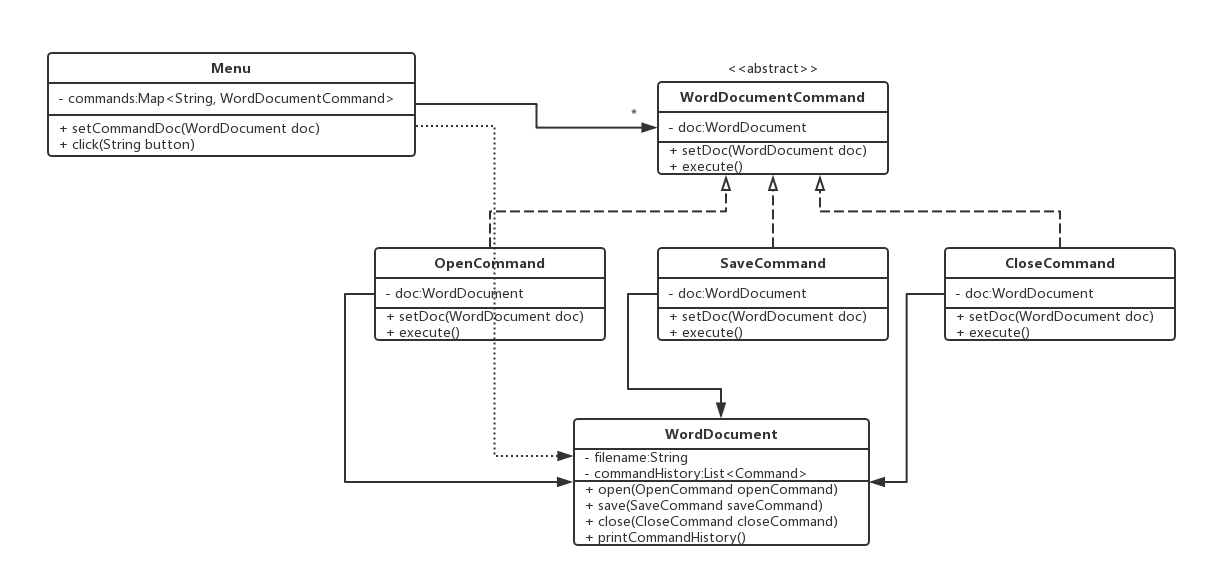
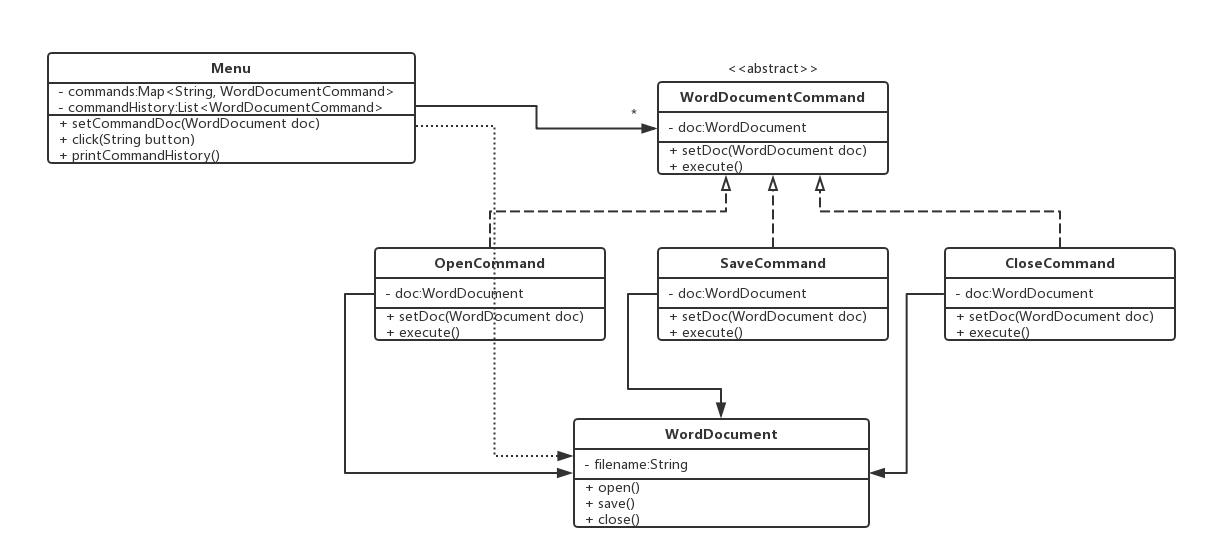
Command Pattern Word app menu example

diff --git a/4-Behavioral Patterns/6-Command Pattern/Word App Menu Example/Python/word_app_menu.py b/4-Behavioral Patterns/6-Command Pattern/Word App Menu Example/Python/word_app_menu.py
@@ -14,51 +14,39 @@ class WordDocument(object):
     """
     WordDocument class that works as the "Receiver" for "WordDocumentCommand".
     """
-    __slots__ = ['_filename', '_command_history']
+    __slots__ = ['_filename']
 
     def __init__(self, filename: str):
+        """
+        Constructor with parameter.
+        :param filename: str
+        """
         self._filename = filename
-        self._command_history = []
 
     @property
     def filename(self) -> str:
         return self._filename
 
-    def open(self, open_command) -> None:
+    def open(self) -> None:
         """
         Opens this Word document.
-        :param open_command: OpenCommand
         :return: None
         """
         print(f'{self._filename} has been opened.')
-        self._command_history.append(open_command)
 
-    def save(self, save_command) -> None:
+    def save(self) -> None:
         """
         Opens this Word document.
-        :param save_command: SaveCommand
         :return: None
         """
         print(f'{self._filename} has been saved.')
-        self._command_history.append(save_command)
 
-    def close(self, close_command) -> None:
+    def close(self) -> None:
         """
         Closes this Word document.
-        :param close_command: CloseCommand
         :return: None
         """
         print(f'{self._filename} has been saved.')
-        self._command_history.append(close_command)
-
-    def print_command_history(self) -> None:
-        """
-        Prints the command history on this Word document.
-        :return: None
-        """
-        print(f'Command history on {self._filename}:')
-        for command in self._command_history:
-            print(command)
 
 
 class WordDocumentCommand(ABC):
@@ -115,7 +103,7 @@ class OpenCommand(WordDocumentCommand):
 
     def execute(self):
         # Let the Word document [Receiver] handle this open command [Command]
-        self._doc.open(self)
+        self._doc.open()
 
 
 class SaveCommand(WordDocumentCommand):
@@ -138,7 +126,7 @@ class SaveCommand(WordDocumentCommand):
 
     def execute(self):
         # Let the Word document [Receiver] handle this save command [Command]
-        self._doc.save(self)
+        self._doc.save()
 
 
 class CloseCommand(WordDocumentCommand):
@@ -161,7 +149,7 @@ class CloseCommand(WordDocumentCommand):
 
     def execute(self):
         # Let the Word document [Receiver] handle this close command [Command]
-        self._doc.close(self)
+        self._doc.close()
 
 
 class Menu(object):
@@ -172,8 +160,7 @@ class Menu(object):
     command.execute() method, and let the internal correct "Receive" handle the
     request.
     """
-    # __slots__ = ['_open_command', '_save_command', '_close_command']
-    __slots__ = ['_commands']
+    __slots__ = ['_commands', '_command_history']
 
     def __init__(self):
         """
@@ -184,6 +171,7 @@ class Menu(object):
             'save': SaveCommand(),
             'close': CloseCommand()
         }
+        self._command_history = []
 
     def set_command_doc(self, doc: WordDocument) -> None:
         """
@@ -203,4 +191,16 @@ class Menu(object):
         if button in self._commands:
             print(f'Menu [Invoker] starts executing the {button} command '
                   f'[Command]...')
-            self._commands[button].execute()
+            # self._commands[button].execute()
+            command = self._commands[button]
+            command.execute()
+            self._command_history.append(command)
+
+    def print_command_history(self) -> None:
+        """
+        Prints the command history.
+        :return: None
+        """
+        print('Command history')
+        for command in self._command_history:
+            print(command)

diff --git a/4-Behavioral Patterns/6-Command Pattern/Word App Menu Example/Java/word_app_menu/WordDocument.java b/4-Behavioral Patterns/6-Command Pattern/Word App Menu Example/Java/word_app_menu/WordDocument.java
@@ -1,8 +1,5 @@
 package word_app_menu;
 
-import java.util.ArrayList;
-import java.util.List;
-
 /**
  * WordDocument class that works as the "Receiver" for "WordDocumentCommand".
  *
@@ -14,10 +11,6 @@ public class WordDocument {
      * Filename of this Word document.
      */
     private final String filename;
-    /**
-     * Command history on this Word document.
-     */
-    private List<WordDocumentCommand> commandHistory;
 
     /**
      * Constructor with parameter.
@@ -25,7 +18,6 @@ public class WordDocument {
      */
     public WordDocument(String filename) {
         this.filename = filename;
-        commandHistory = new ArrayList<>();
     }
 
     /**
@@ -38,39 +30,23 @@ public class WordDocument {
 
     /**
      * Opens this Word document.
-     * @param openCommand command to open this Word document
      */
-    void open(OpenCommand openCommand) {
+    void open() {
         System.out.println(filename + " has been opened.");
-        commandHistory.add(openCommand);
     }
 
     /**
      * Saves this Word document.
-     * @param saveCommand command to save this Word document
      */
-    void save(SaveCommand saveCommand) {
+    void save() {
         System.out.println(filename + " has been saved.");
-        commandHistory.add(saveCommand);
     }
 
     /**
      * Closes this Word document.
-     * @param closeCommand command to close this Word document
      */
-    void close(CloseCommand closeCommand) {
+    void close() {
         System.out.println(filename + " has been closed.");
-        commandHistory.add(closeCommand);
-    }
-
-    /**
-     * Prints the command history on this Word document.
-     */
-    public void printCommandHistory() {
-        System.out.println("Command history on " + filename + ":");
-        for (WordDocumentCommand command : commandHistory) {
-            System.out.println(command);
-        }
     }
 
 }

diff --git a/4-Behavioral Patterns/6-Command Pattern/Word App Menu Example/Java/runner/User.java b/4-Behavioral Patterns/6-Command Pattern/Word App Menu Example/Java/runner/User.java
@@ -29,9 +29,6 @@ public class User {
         menu.click("save");
         menu.click("close");
 
-        System.out.println();
-        doc.printCommandHistory();
-
         WordDocument doc2 = new WordDocument("Sample File 2.txt"); // Receiver
 
         System.out.println();
@@ -45,7 +42,7 @@ public class User {
         menu.click("close");
 
         System.out.println();
-        doc2.printCommandHistory();
+        menu.printCommandHistory();
 
         /*
          * Output:
@@ -66,12 +63,6 @@ public class User {
          * Menu [Invoker] starts executing the close command [Command]
          * Sample File.txt has been closed.
          *
-         * Command history on Sample File.txt:
-         * word_app_menu.OpenCommand@39ba5a14
-         * word_app_menu.SaveCommand@511baa65
-         * word_app_menu.SaveCommand@511baa65
-         * word_app_menu.CloseCommand@340f438e
-         *
          * Setting the Word document [Receiver] for save command [Command] as Sample File 2.txt.
          * Setting the Word document [Receiver] for close command [Command] as Sample File 2.txt.
          * Setting the Word document [Receiver] for open command [Command] as Sample File 2.txt.
@@ -85,7 +76,11 @@ public class User {
          * Menu [Invoker] starts executing the close command [Command]
          * Sample File 2.txt has been closed.
          *
-         * Command history on Sample File 2.txt:
+         * Command history:
+         * word_app_menu.OpenCommand@39ba5a14
+         * word_app_menu.SaveCommand@511baa65
+         * word_app_menu.SaveCommand@511baa65
+         * word_app_menu.CloseCommand@340f438e
          * word_app_menu.OpenCommand@39ba5a14
          * word_app_menu.SaveCommand@511baa65
          * word_app_menu.SaveCommand@511baa65

diff --git a/4-Behavioral Patterns/6-Command Pattern/Word App Menu Example/Python/user.py b/4-Behavioral Patterns/6-Command Pattern/Word App Menu Example/Python/user.py
@@ -25,9 +25,6 @@ def main():
     menu.click('save')
     menu.click('close')
 
-    print()
-    doc.print_command_history()
-
     doc2 = WordDocument('Sample File 2.txt')  # Receiver
 
     # Set the Word document [Receiver] for the commands [Command]
@@ -41,7 +38,7 @@ def main():
     menu.click('close')
 
     print()
-    doc2.print_command_history()
+    menu.print_command_history()
 
 
 if __name__ == '__main__':
@@ -65,12 +62,6 @@ if __name__ == '__main__':
 # Menu [Invoker] starts executing the close command [Command]...
 # Sample File.txt has been saved.
 #
-# Command history on Sample File.txt:
-# <word_app_menu.OpenCommand object at 0x109edd618>
-# <word_app_menu.SaveCommand object at 0x109edd648>
-# <word_app_menu.SaveCommand object at 0x109edd648>
-# <word_app_menu.CloseCommand object at 0x109edd678>
-#
 # Setting a Word document [Receiver] for open command [Command] as Sample File 2.txt.
 # Setting a Word document [Receiver] for save command [Command] as Sample File 2.txt.
 # Setting a Word document [Receiver] for close command [Command] as Sample File 2.txt.
@@ -84,7 +75,11 @@ if __name__ == '__main__':
 # Menu [Invoker] starts executing the close command [Command]...
 # Sample File 2.txt has been saved.
 #
-# Command history on Sample File 2.txt:
+# Command history:
+# <word_app_menu.OpenCommand object at 0x109edd618>
+# <word_app_menu.SaveCommand object at 0x109edd648>
+# <word_app_menu.SaveCommand object at 0x109edd648>
+# <word_app_menu.CloseCommand object at 0x109edd678>
 # <word_app_menu.OpenCommand object at 0x109edd618>
 # <word_app_menu.SaveCommand object at 0x109edd648>
 # <word_app_menu.SaveCommand object at 0x109edd648>

diff --git a/4-Behavioral Patterns/6-Command Pattern/Word App Menu Example/Java/word_app_menu/Menu.java b/4-Behavioral Patterns/6-Command Pattern/Word App Menu Example/Java/word_app_menu/Menu.java
@@ -1,6 +1,8 @@
 package word_app_menu;
 
+import java.util.ArrayList;
 import java.util.HashMap;
+import java.util.List;
 import java.util.Map;
 
 /**
@@ -20,6 +22,11 @@ public class Menu {
     private Map<String, WordDocumentCommand> commands;
 
     /**
+     * Command history.
+     */
+    private List<WordDocumentCommand> commandHistory;
+
+    /**
      * Default constructor.
      */
     public Menu() {
@@ -27,6 +34,8 @@ public class Menu {
         commands.put("open", new OpenCommand());
         commands.put("save", new SaveCommand());
         commands.put("close", new CloseCommand());
+
+        commandHistory = new ArrayList<>();
     }
 
     /**
@@ -46,7 +55,19 @@ public class Menu {
     public void click(String button) {
         if (commands.containsKey(button)) {
             System.out.println("Menu [Invoker] starts executing the " + button + " command [Command]");
-            commands.get(button).execute();
+            Command command = commands.get(button);
+            command.execute();
+            commandHistory.add(command);
+        }
+    }
+
+    /**
+     * Prints the command history invoked by this menu.
+     */
+    public void printCommandHistory() {
+        System.out.println("Command history:");
+        for (Command command : commandHistory) {
+            System.out.println(command);
         }
     }
 

diff --git a/4-Behavioral Patterns/6-Command Pattern/Word App Menu Example/Java/word_app_menu/CloseCommand.java b/4-Behavioral Patterns/6-Command Pattern/Word App Menu Example/Java/word_app_menu/CloseCommand.java
@@ -24,7 +24,7 @@ class CloseCommand extends WordDocumentCommand {
     @Override
     void execute() {
         // Let the Word document [Receiver] handle this close command [Command]
-        doc.close(this);
+        doc.close();
     }
 
 }

diff --git a/4-Behavioral Patterns/6-Command Pattern/Word App Menu Example/Java/word_app_menu/OpenCommand.java b/4-Behavioral Patterns/6-Command Pattern/Word App Menu Example/Java/word_app_menu/OpenCommand.java
@@ -24,7 +24,7 @@ class OpenCommand extends WordDocumentCommand {
     @Override
     void execute() {
         // Let the Word document [Receiver] handle this open command [Command]
-        doc.open(this);
+        doc.open();
     }
 
 }

diff --git a/4-Behavioral Patterns/6-Command Pattern/Word App Menu Example/Java/word_app_menu/SaveCommand.java b/4-Behavioral Patterns/6-Command Pattern/Word App Menu Example/Java/word_app_menu/SaveCommand.java
@@ -24,7 +24,7 @@ class SaveCommand extends WordDocumentCommand {
     @Override
     void execute() {
         // Let the Word document [Receiver] handle this save command [Command]
-        doc.save(this);
+        doc.save();
     }
 
 }
